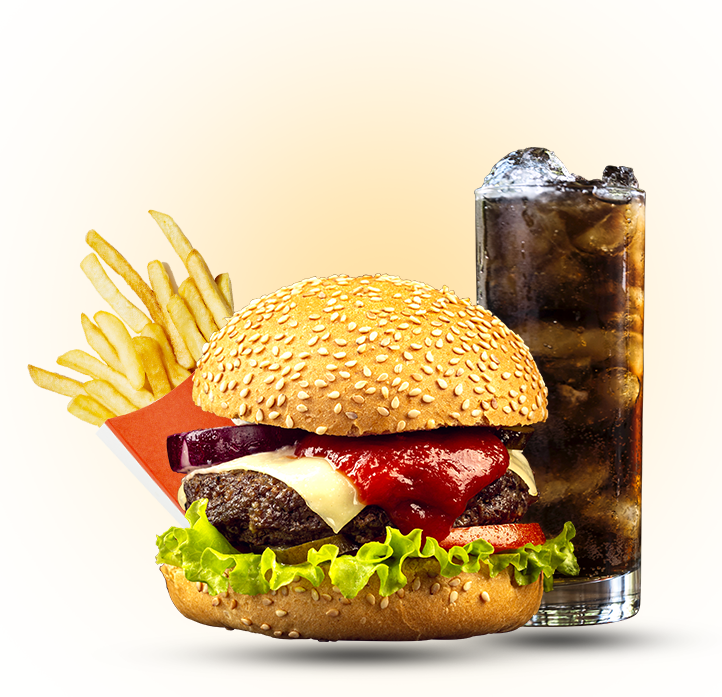
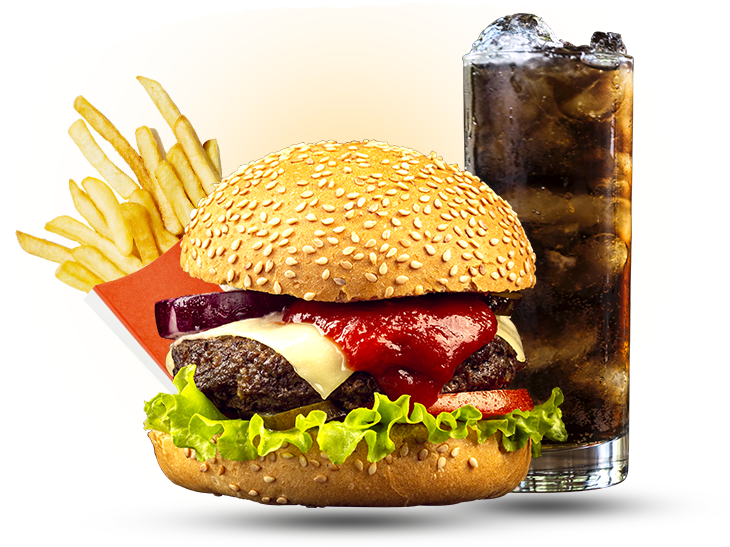
add header

diff --git a/css/header.css b/css/header.css
@@ -4,6 +4,7 @@ header {
   height: 100vh;
   width: 100%;
   padding: 5.7rem 4.8rem 8rem 5.3rem;
+  color: #43200c;
 }
 .boxheader {
   display: flex;
@@ -15,6 +16,7 @@ header {
 }
 .express {
   justify-items: end;
+  font-family: "Montserrat", serif;
   & img {
     height: 3.3rem;
     width: 4.1rem;
@@ -23,6 +25,7 @@ header {
 .menu {
   display: flex;
   padding: 2rem 0;
+  font-family: "Montserrat", serif;
   & li {
     margin: 0 0 0 10rem;
   }
@@ -35,6 +38,23 @@ header {
     }
   }
 }
-.boxTitulo{
+.boxTitulo {
   display: flex;
+  justify-content: space-between;
+  & img {
+    height: 43rem;
+  }
+}
+.title {
+  margin-top: 6rem;
+  font-family: "Alfa Slab One", serif;
+  & h1 {
+    font-size: 12rem;
+  }
+  & h2 {
+    font-size: 6rem;
+  }
+  & h3 {
+    font-family: "Montserrat", serif;
+  }
 }

diff --git a/css/fonts.css b/css/fonts.css
@@ -1,0 +1,5 @@
+@import url("https://fonts.googleapis.com/css2?family=Alfa+Slab+One&family=Bebas+Neue&family=Fugaz+One&family=Montserrat:ital,wght@0,100..900;1,100..900&display=swap");
+
+@import url("https://fonts.googleapis.com/css2?family=Alfa+Slab+One&family=Bebas+Neue&family=Fugaz+One&family=Montserrat:ital,wght@0,100..900;1,100..900&display=swap");
+
+@import url("https://fonts.googleapis.com/css2?family=Alfa+Slab+One&family=Bebas+Neue&family=Fugaz+One&family=Montserrat:ital,wght@0,100..900;1,100..900&display=swap");

diff --git a/index.html b/index.html
@@ -34,9 +34,11 @@
       </section>
       <section>
         <div class="boxTitulo">
-          <h3>it is a good tome for the great taste of burgers</h3>
-          <h1>BURGER</h1>
-          <h2>WEEK</h2>
+          <div class="title">
+            <h3>it is a good tome for the great taste of burgers</h3>
+            <h1>BURGER</h1>
+            <h2>WEEK</h2>
+          </div>
           <div class="wallp"><img src="img/BURGER-HOUSE.png" alt="#" /></div>
         </div>
       </section>

diff --git a/css/reset.css b/css/reset.css
@@ -24,7 +24,7 @@ ul {
 
 a {
   text-decoration: none;
-  color: black;
+  color: #43200c;
 }
 
 button {
